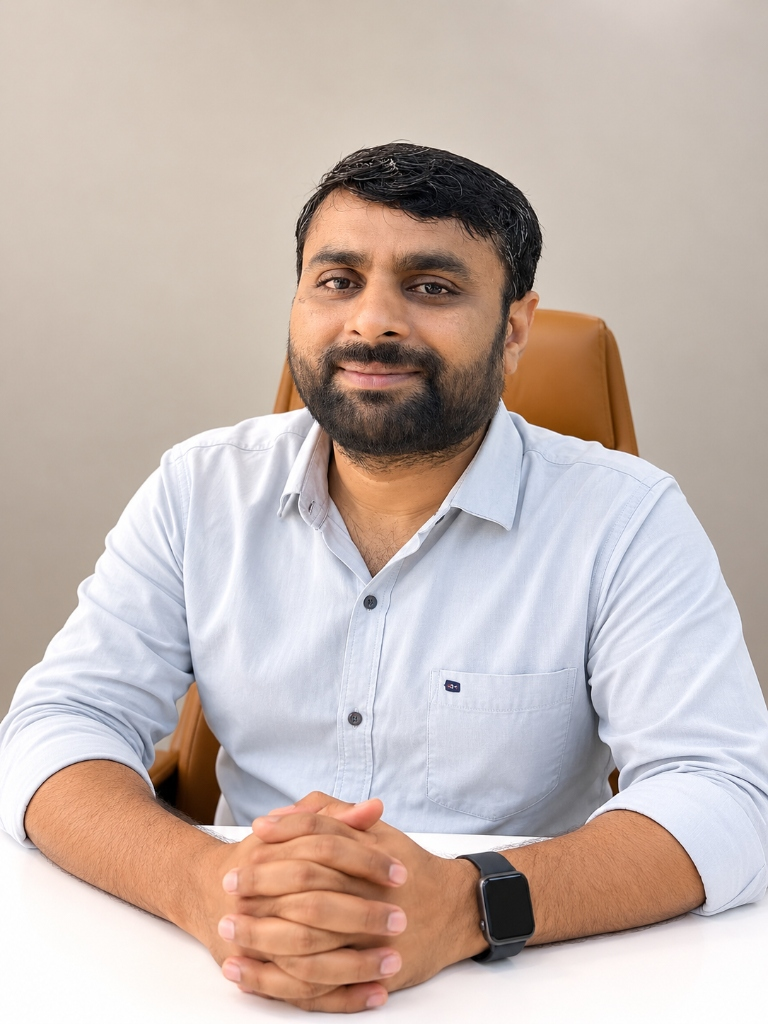
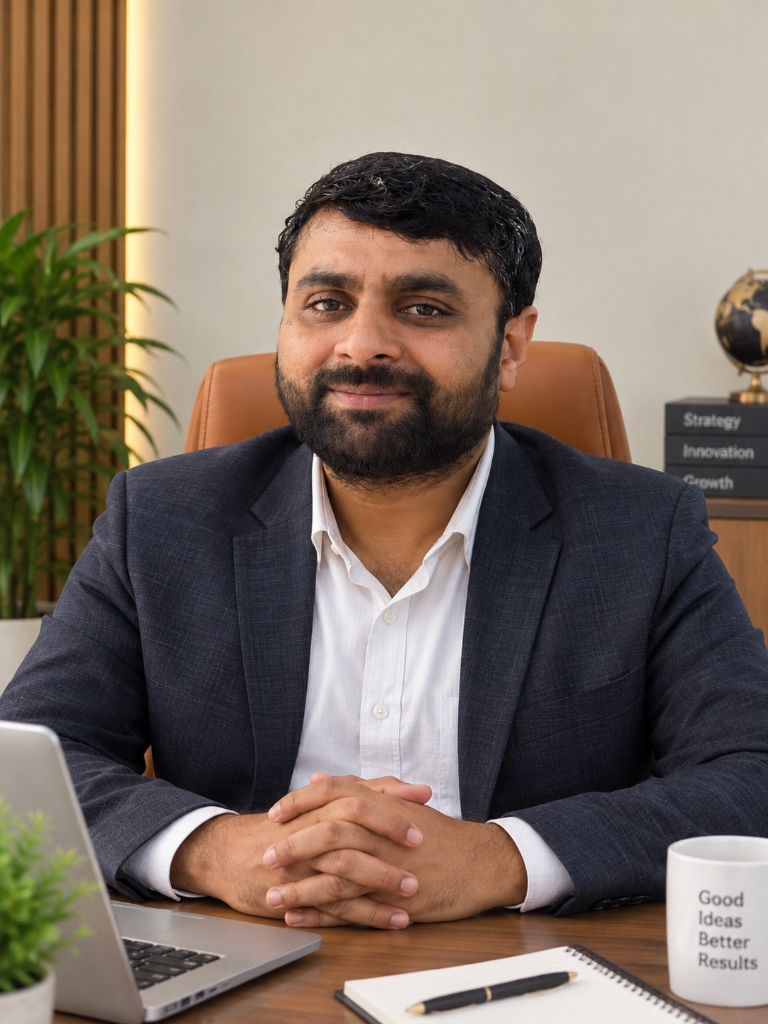
Update Dhrupal portrait; reorder menu sequence to Home -> Products -> Infrastructure -> Milestones -> Management; increase space before Get in Touch button

diff --git a/management.html b/management.html
@@ -12,7 +12,7 @@
 <meta http-equiv="Cache-Control" content="no-cache, no-store, must-revalidate">
 <meta http-equiv="Pragma" content="no-cache">
 <meta http-equiv="Expires" content="0">
-<link rel="stylesheet" href="styles.css?v=88">
+<link rel="stylesheet" href="styles.css?v=89">
 </head>
 <body>
 
@@ -30,8 +30,8 @@
    </div>
    <ul>
     <li><a href="./">Home</a></li>
-    <li><a href="infrastructure">Infrastructure</a></li>
     <li><a href="products">Products</a></li>
+    <li><a href="infrastructure">Infrastructure</a></li>
     <li><a href="milestones">Milestones</a></li>
     <li><a href="management">Management</a></li>
    </ul>
@@ -290,7 +290,7 @@
 
     <div class="team-arch-card">
      <div class="team-photo-frame" tabindex="0">
-      <img src="images/team-dhrupal-rangani.jpg?v=1" alt="Mr. Dhrupal Rangani" class="team-photo-img" onerror="this.classList.add('is-hidden')">
+      <img src="images/team-dhrupal-rangani.jpg?v=2" alt="Mr. Dhrupal Rangani" class="team-photo-img" onerror="this.classList.add('is-hidden')">
       <div class="team-photo-placeholder" aria-hidden="true">
        <span class="avatar-badge-arch">DR</span>
       </div>

diff --git a/investors.html b/investors.html
@@ -13,7 +13,7 @@
 <meta http-equiv="Pragma" content="no-cache">
 <meta http-equiv="refresh" content="0; url=./">
 <script>window.location.replace('./');</script>
-<link rel="stylesheet" href="styles.css?v=88">
+<link rel="stylesheet" href="styles.css?v=89">
 </head>
 <body>
 
@@ -31,8 +31,8 @@
    </div>
    <ul>
     <li><a href="./">Home</a></li>
-    <li><a href="infrastructure">Infrastructure</a></li>
     <li><a href="products">Products</a></li>
+    <li><a href="infrastructure">Infrastructure</a></li>
     <li><a href="milestones">Milestones</a></li>
     <li><a href="management">Management</a></li>
     <li><a href="investors">Investors</a></li>

diff --git a/contact.html b/contact.html
@@ -12,7 +12,7 @@
 <meta http-equiv="Cache-Control" content="no-cache, no-store, must-revalidate">
 <meta http-equiv="Pragma" content="no-cache">
 <meta http-equiv="Expires" content="0">
-<link rel="stylesheet" href="styles.css?v=88">
+<link rel="stylesheet" href="styles.css?v=89">
 </head>
 <body>
 
@@ -30,8 +30,8 @@
    </div>
    <ul>
     <li><a href="./">Home</a></li>
-    <li><a href="infrastructure">Infrastructure</a></li>
     <li><a href="products">Products</a></li>
+    <li><a href="infrastructure">Infrastructure</a></li>
     <li><a href="milestones">Milestones</a></li>
     <li><a href="management">Management</a></li>
    </ul>

diff --git a/index.html b/index.html
@@ -12,7 +12,7 @@
 <meta http-equiv="Cache-Control" content="no-cache, no-store, must-revalidate">
 <meta http-equiv="Pragma" content="no-cache">
 <meta http-equiv="Expires" content="0">
-<link rel="stylesheet" href="styles.css?v=88">
+<link rel="stylesheet" href="styles.css?v=89">
 </head>
 <body>
 
@@ -30,8 +30,8 @@
    </div>
    <ul>
     <li><a href="./">Home</a></li>
-    <li><a href="infrastructure">Infrastructure</a></li>
     <li><a href="products">Products</a></li>
+    <li><a href="infrastructure">Infrastructure</a></li>
     <li><a href="milestones">Milestones</a></li>
     <li><a href="management">Management</a></li>
    </ul>

diff --git a/infrastructure.html b/infrastructure.html
@@ -12,7 +12,7 @@
 <meta http-equiv="Cache-Control" content="no-cache, no-store, must-revalidate">
 <meta http-equiv="Pragma" content="no-cache">
 <meta http-equiv="Expires" content="0">
-<link rel="stylesheet" href="styles.css?v=88">
+<link rel="stylesheet" href="styles.css?v=89">
 </head>
 <body>
 
@@ -30,8 +30,8 @@
    </div>
    <ul>
     <li><a href="./">Home</a></li>
-    <li><a href="infrastructure">Infrastructure</a></li>
     <li><a href="products">Products</a></li>
+    <li><a href="infrastructure">Infrastructure</a></li>
     <li><a href="milestones">Milestones</a></li>
     <li><a href="management">Management</a></li>
    </ul>

diff --git a/milestones.html b/milestones.html
@@ -12,7 +12,7 @@
 <meta http-equiv="Cache-Control" content="no-cache, no-store, must-revalidate">
 <meta http-equiv="Pragma" content="no-cache">
 <meta http-equiv="Expires" content="0">
-<link rel="stylesheet" href="styles.css?v=88">
+<link rel="stylesheet" href="styles.css?v=89">
 </head>
 <body>
 
@@ -30,8 +30,8 @@
    </div>
    <ul>
     <li><a href="./">Home</a></li>
-    <li><a href="infrastructure">Infrastructure</a></li>
     <li><a href="products">Products</a></li>
+    <li><a href="infrastructure">Infrastructure</a></li>
     <li><a href="milestones">Milestones</a></li>
     <li><a href="management">Management</a></li>
    </ul>

diff --git a/products.html b/products.html
@@ -12,7 +12,7 @@
 <meta http-equiv="Cache-Control" content="no-cache, no-store, must-revalidate">
 <meta http-equiv="Pragma" content="no-cache">
 <meta http-equiv="Expires" content="0">
-<link rel="stylesheet" href="styles.css?v=88">
+<link rel="stylesheet" href="styles.css?v=89">
 </head>
 <body>
 
@@ -30,8 +30,8 @@
    </div>
    <ul>
     <li><a href="./">Home</a></li>
-    <li><a href="infrastructure">Infrastructure</a></li>
     <li><a href="products">Products</a></li>
+    <li><a href="infrastructure">Infrastructure</a></li>
     <li><a href="milestones">Milestones</a></li>
     <li><a href="management">Management</a></li>
    </ul>

diff --git a/styles.css b/styles.css
@@ -384,7 +384,7 @@ nav.main-nav a.active::after {
   align-items: center;
   gap: 16px;
   flex-shrink: 0;
-  margin-left: 20px;
+  margin-left: 42px;
 }
 
 .nav-cta-btn {
